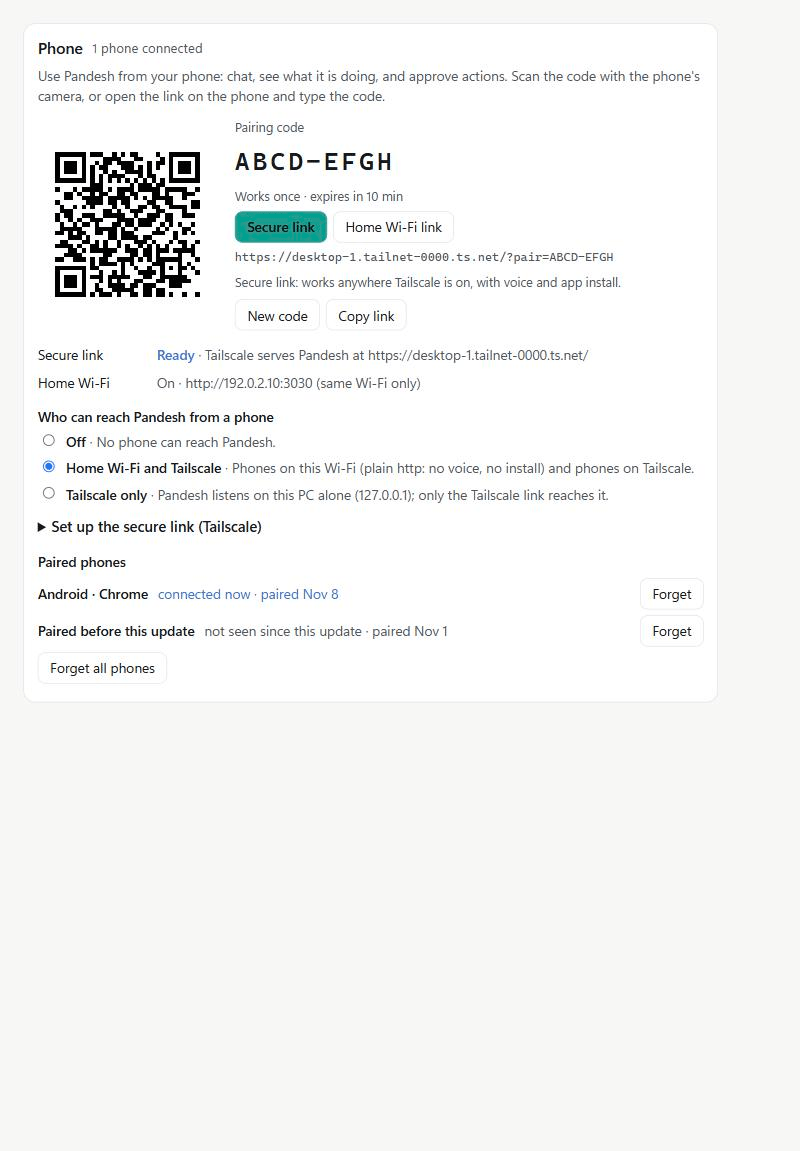
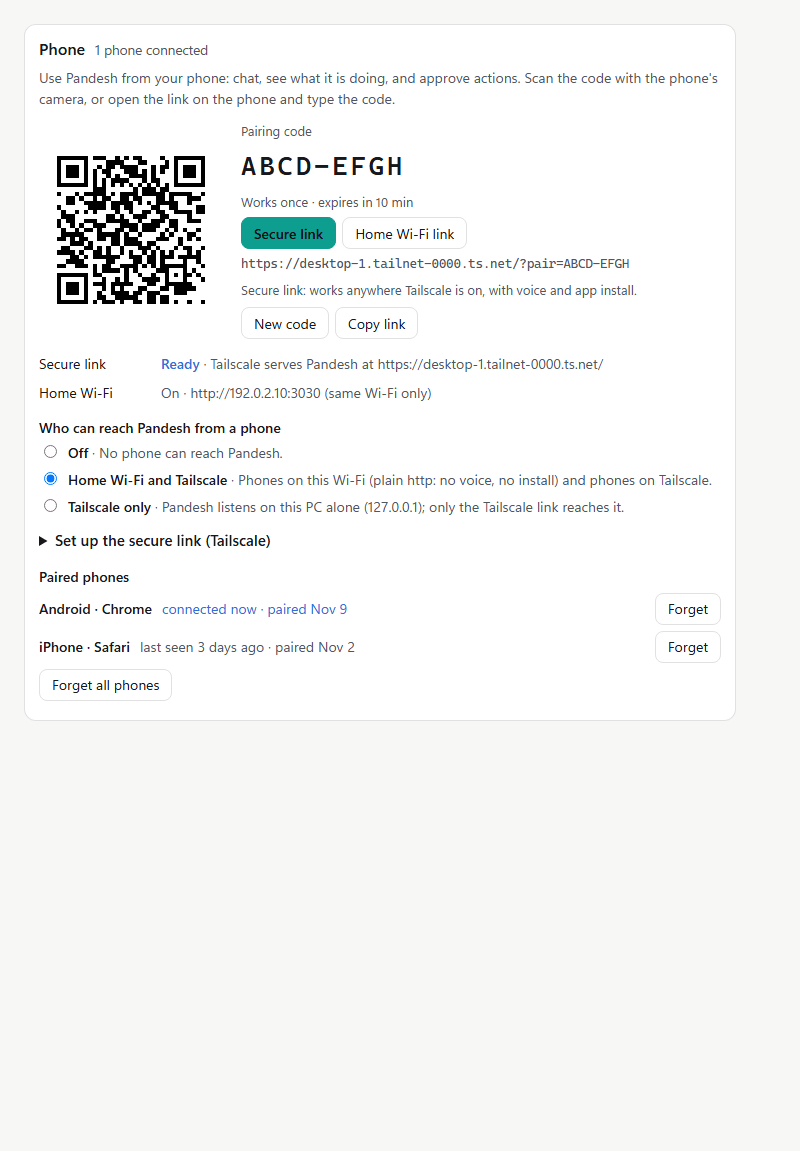
fix(mobile): drop phone logins from older builds on upgrade
On its first start this build used to keep the phones paired with an older
build, their raw tokens hashed and shown as "Paired before this update". Now
the old file's phone logins, its host token and its code are all dropped:
those phones pair again with a new one-time code. The new file replaces the
old one, so no copy of the old values stays on disk. The host log records
only the count: "[MOBILE] dropped N phone logins from an older build".

- mobilePairing: the migration keeps nothing; droppedOldLogins gives the count.
- The legacy flag and the "not seen since this update" wording are gone.
- Tests: old sessions and the old host token no longer log in, a fresh code
  is issued, nothing old is left in the folder (not even hashed), and the
  server logs only the count.
- docs/mobile: phones paired with an older build must pair again. The example
  Phone card screenshot no longer shows an old-build phone.

Changed region(s): [[0.0312, 0.0304, 0.875, 0.6082], [0.8125, 0.5169, 0.875, 0.5778]]

diff --git a/apps/desktop/src/host/mobilePairing.ts b/apps/desktop/src/host/mobilePairing.ts
@@ -8,7 +8,8 @@
  * - A phone not seen for 90 days is forgotten.
  *
  * Earlier builds kept a 4-character code that never changed and the raw session tokens. Loading such a file keeps
- * its phones (marked "paired before this update", so the owner can forget them) and drops the old code.
+ * none of it: phones paired with an older build pair again with a new one-time code, and the new file replaces the
+ * old one, so no copy of its values stays on disk.
  */
 import * as crypto from 'node:crypto';
 import * as fs from 'node:fs';
@@ -28,8 +29,6 @@ export interface PairedDevice {
   name: string;
   pairedAt: string;
   lastSeenAt: string | null;
-  /** Paired by a build before this pairing format (its token was stored in the clear and has now been hashed). */
-  legacy?: boolean;
 }
 
 interface StoredDevice extends PairedDevice {
@@ -108,6 +107,7 @@ export class PairingStore {
   private codeIssuedAt = 0;
   private devices: StoredDevice[] = [];
   private readonly persistedSeen = new Map<string, number>();
+  private oldLoginsDropped = 0;
 
   constructor(
     private readonly file: string,
@@ -119,6 +119,11 @@ export class PairingStore {
 
   static fileIn(dataDir: string): string {
     return path.join(dataDir, 'mobile-pair.json');
+  }
+
+  /** How many phone logins from an older build's file were dropped when this store loaded it (a count, nothing else). */
+  get droppedOldLogins(): number {
+    return this.oldLoginsDropped;
   }
 
   /** The current code, replaced first when it has expired. */
@@ -232,7 +237,6 @@ export class PairingStore {
           pairedAt: typeof d.pairedAt === 'string' ? d.pairedAt : new Date(this.now()).toISOString(),
           lastSeenAt: typeof d.lastSeenAt === 'string' ? d.lastSeenAt : null,
           tokenHash: d.tokenHash,
-          ...(d.legacy ? { legacy: true } : {}),
         }));
       const issued = Date.parse(file.codeIssuedAt);
       if (normalizePairingCode(file.code) === file.code && Number.isFinite(issued)) {
@@ -244,30 +248,20 @@ export class PairingStore {
       return;
     }
 
-    // Before this format: { code, token, sessions[], pairedTokens[] } with raw tokens. Keep the phones, hash their
-    // tokens, drop the never-expiring code. The old `token` was a host-side secret that was also accepted as a login;
-    // no phone ever received it, so it is not carried over.
+    // Before this format: { code, token, sessions[], pairedTokens[] }, with raw session tokens and a code that never
+    // changed. None of it is carried over (the owner's decision): phones paired with an older build pair again. The
+    // old `token` was a host-side secret that was also accepted as a login; it is dropped too, but not counted as a
+    // phone, since no phone ever held it.
     if (raw && typeof raw === 'object') {
-      const legacyHostToken = typeof raw.token === 'string' ? raw.token : null;
-      const tokens = new Set<string>();
+      const hostToken = typeof raw.token === 'string' ? raw.token : null;
+      const logins = new Set<string>();
       for (const list of [raw.sessions, raw.pairedTokens]) {
-        if (Array.isArray(list)) for (const t of list) if (typeof t === 'string' && t && t !== legacyHostToken) tokens.add(t);
+        if (Array.isArray(list)) for (const t of list) if (typeof t === 'string' && t && t !== hostToken) logins.add(t);
       }
-      const at = typeof raw.updatedAt === 'string' && Number.isFinite(Date.parse(raw.updatedAt))
-        ? raw.updatedAt
-        : new Date(this.now()).toISOString();
-      for (const t of tokens) {
-        this.devices.push({
-          id: crypto.randomBytes(6).toString('hex'),
-          name: 'Paired before this update',
-          pairedAt: at,
-          lastSeenAt: null,
-          tokenHash: hashSessionToken(t),
-          legacy: true,
-        });
-      }
-      this.trimDevices();
+      this.oldLoginsDropped = logins.size;
     }
+    // Starts with no phones and a fresh one-time code. The save replaces the old file in place (temp file, then
+    // rename), so none of the old values stay on disk.
     this.rotateCode();
   }
 

diff --git a/apps/desktop/test/mobilePairing.test.ts b/apps/desktop/test/mobilePairing.test.ts
@@ -95,6 +95,7 @@ describe('PairingStore', () => {
     if (!paired.ok) throw new Error('pairing failed');
     const code = a.currentCode().code;
     const b = new PairingStore(file, c.now);
+    expect(b.droppedOldLogins).toBe(0);
     expect(b.currentCode().code).toBe(code);
     expect(b.verify(paired.token)?.id).toBe(paired.device.id);
   });
@@ -139,26 +140,42 @@ describe('PairingStore', () => {
     expect(store.list()).toHaveLength(MAX_PAIRED_DEVICES);
   });
 
-  it('migrates the old file: phones kept with hashed tokens, the old code and the host token dropped', () => {
+  it('drops every login from an older build: none works again, a fresh code is issued, nothing old stays on disk', () => {
     const file = pairFile();
-    const hostToken = 'legacy-host-token-value-0001';
+    const hostToken = 'old-host-token-value-0001';
+    const phones = ['old-phone-session-aaaa', 'old-phone-session-bbbb', 'old-phone-session-cccc'];
     fs.writeFileSync(file, JSON.stringify({
       code: 'H7KM',
       token: hostToken,
-      sessions: ['phone-session-aaaa', hostToken, 'phone-session-bbbb'],
+      sessions: [phones[0], hostToken, phones[1]],
+      pairedTokens: [phones[1], phones[2]],
       updatedAt: '2026-11-01T10:00:00.000Z',
     }));
-    const store = new PairingStore(file, clock().now);
-    expect(store.currentCode().code).toMatch(/^[23456789A-HJ-NP-Z]{8}$/);
-    expect(store.list()).toHaveLength(2);
-    expect(store.list().every((d) => d.legacy && d.name === 'Paired before this update')).toBe(true);
-    expect(store.verify('phone-session-aaaa')).not.toBeNull();
-    expect(store.verify(hostToken)).toBeNull();
+    const c = clock();
+    const store = new PairingStore(file, c.now);
+
+    // 1. The old logins are dropped: three phones (the host token and the repeated token are not counted again).
+    expect(store.droppedOldLogins).toBe(3);
+    expect(store.list()).toEqual([]);
+    // 2. No old session token logs in any more, and neither does the old host token.
+    for (const old of [...phones, hostToken]) expect(store.verify(old)).toBeNull();
+    // 3. A fresh one-time code replaces the old 4-character one.
+    const { code, expiresAt } = store.currentCode();
+    expect(code).toMatch(/^[23456789A-HJ-NP-Z]{8}$/);
+    expect(expiresAt - c.now()).toBe(PAIR_CODE_TTL_MS);
+    expect(store.tryPair('H7KM', ANDROID_CHROME)).toEqual({ ok: false, reason: 'invalid' });
+
+    // Nothing old stays on disk: not in the new file (not even hashed), and no backup or temp file beside it.
+    expect(fs.readdirSync(path.dirname(file))).toEqual(['mobile-pair.json']);
     const saved = fs.readFileSync(file, 'utf8');
-    expect(saved).not.toContain('phone-session-aaaa');
-    expect(saved).not.toContain(hostToken);
-    expect(saved).not.toContain('H7KM');
-    expect(JSON.parse(saved).version).toBe(2);
+    for (const old of [...phones, hostToken, 'H7KM', ...[...phones, hostToken].map(hashSessionToken)]) expect(saved).not.toContain(old);
+    expect(JSON.parse(saved)).toMatchObject({ version: 2, devices: [] });
+
+    // A phone pairs as usual with the new code, and the next start has nothing old left to drop.
+    expect(store.tryPair(code, ANDROID_CHROME).ok).toBe(true);
+    const restarted = new PairingStore(file, c.now);
+    expect(restarted.droppedOldLogins).toBe(0);
+    expect(restarted.list()).toHaveLength(1);
   });
 
   it('a broken or foreign file starts clean instead of failing', () => {
@@ -166,6 +183,7 @@ describe('PairingStore', () => {
     fs.writeFileSync(file, '{ not json');
     const store = new PairingStore(file, clock().now);
     expect(store.list()).toEqual([]);
+    expect(store.droppedOldLogins).toBe(0);
     expect(store.currentCode().code).toHaveLength(8);
   });
 });

diff --git a/apps/desktop/test/mobileServer.test.ts b/apps/desktop/test/mobileServer.test.ts
@@ -2,7 +2,7 @@ import { afterEach, describe, expect, it, vi } from 'vitest';
 import * as fs from 'node:fs';
 import * as path from 'node:path';
 import * as vm from 'node:vm';
-import { mockSession, pair, startServer } from './mobileTestKit';
+import { mockSession, pair, startServer, tempDir } from './mobileTestKit';
 
 const mobileFile = (name: string) => path.join(__dirname, '..', 'renderer', 'mobile', name);
 
@@ -220,6 +220,28 @@ describe('Pandesh Mobile Server (Unified Session Protocol)', () => {
       expect(text).not.toContain('host.token');
     }
     expect(JSON.stringify(await ok.json())).not.toMatch(/token/i);
+  });
+
+  it('after an upgrade, phones paired with an older build must pair again; the log gives only the count', async () => {
+    const dataDir = tempDir(dirs);
+    const hostToken = 'old-host-token-value-0002';
+    const phones = ['old-phone-session-dddd', 'old-phone-session-eeee'];
+    fs.writeFileSync(path.join(dataDir, 'mobile-pair.json'), JSON.stringify({ code: 'H7KM', token: hostToken, sessions: [phones[0], hostToken], pairedTokens: [phones[1]] }));
+    const { server: mobile, logs, base } = await server({ dataDir });
+
+    expect(logs).toContain('[MOBILE] dropped 2 phone logins from an older build');
+    expect(mobile.pairedDevices()).toEqual([]);
+    for (const old of [...phones, hostToken]) {
+      expect((await fetch(`${base}/api/session`, { headers: { Cookie: `kkd_session=${old}` } })).status).toBe(401);
+      expect((await fetch(`${base}/api/events`, { headers: { Cookie: `kkd_session=${old}` } })).status).toBe(401);
+    }
+    expect((await pair(base, 'H7KM')).status).toBe(401);
+
+    const { code } = mobile.getPairingInfo();
+    expect(code).toMatch(/^[23456789A-HJ-NP-Z]{4}-[23456789A-HJ-NP-Z]{4}$/);
+    expect((await pair(base, code)).status).toBe(200);
+    const logText = logs.join('\n');
+    for (const secret of [...phones, hostToken, 'H7KM', code, code.replace('-', '')]) expect(logText).not.toContain(secret);
   });
 });
 

diff --git a/apps/desktop/renderer-v2/src/Phone.tsx b/apps/desktop/renderer-v2/src/Phone.tsx
@@ -56,7 +56,8 @@ function QrCode({ text }: { text: string }) {
 }
 
 function deviceLine(d: MobileDevice, now: number): string {
-  const seen = d.connected ? 'connected now' : d.lastSeenAt ? `last seen ${since(d.lastSeenAt, now)}` : 'not seen since this update';
+  const lastSeen = since(d.lastSeenAt ?? d.pairedAt, now);
+  const seen = d.connected ? 'connected now' : lastSeen ? `last seen ${lastSeen}` : '';
   const paired = Number.isFinite(Date.parse(d.pairedAt)) ? `paired ${new Date(d.pairedAt).toLocaleDateString(undefined, { day: 'numeric', month: 'short' })}` : '';
   return [seen, paired].filter(Boolean).join(' · ');
 }

diff --git a/apps/desktop/src/host/mobileServer.ts b/apps/desktop/src/host/mobileServer.ts
@@ -134,6 +134,9 @@ export class MobileServer {
     this.pairing = new PairingStore(PairingStore.fileIn(options.dataDir), this.now);
     this.limiter = new PairAttemptLimiter(options.pairLimits ?? DEFAULT_PAIR_LIMITS, this.now);
     this.assets = new MobileAssets(options.assetsDir ?? defaultMobileAssetsDir());
+    // Only the count, so the drop can be confirmed after an upgrade; never a token or a code.
+    const dropped = this.pairing.droppedOldLogins;
+    if (dropped > 0) this.log(`[MOBILE] dropped ${dropped} phone login${dropped === 1 ? '' : 's'} from an older build`);
   }
 
   private log(message: string): void {

diff --git a/apps/desktop/renderer-v2/src/bridge.ts b/apps/desktop/renderer-v2/src/bridge.ts
@@ -91,7 +91,7 @@ export interface Brief { generatedAt: string; home: BriefItem[] }
 
 /** Who can reach Pandesh Mobile (ipc.ts MobileAccessMode). */
 export type MobileAccess = 'off' | 'lan' | 'tailscale';
-export interface MobileDevice { id: string; name: string; pairedAt: string; lastSeenAt: string | null; connected: boolean; legacy?: boolean }
+export interface MobileDevice { id: string; name: string; pairedAt: string; lastSeenAt: string | null; connected: boolean }
 /** Phone pairing as the host reports it (ipc.ts MobilePairingView). Never a session token. */
 export interface MobilePairing {
   code: string;

diff --git a/apps/desktop/src/ipc.ts b/apps/desktop/src/ipc.ts
@@ -1115,7 +1115,6 @@ export interface MobilePairedDeviceView {
   pairedAt: string;
   lastSeenAt: string | null;
   connected: boolean;
-  legacy?: boolean;
 }
 
 /** The phone pairing state for the PC (Connections → Phone; Classic Integrations). Never contains a session token. */

diff --git a/docs/mobile/README.md b/docs/mobile/README.md
@@ -46,6 +46,7 @@ Without Tailscale, a phone on the same Wi-Fi opens `http://<PC address>:3030`. T
 
 - **Pairing.** The code has 8 characters, works once, and expires after 10 minutes. After 5 wrong codes from one device in 5 minutes, that device has to wait. After 20 wrong codes in total, pairing pauses for 15 minutes. You can allow it again on the PC.
 - **Each phone has its own login.** It is an HttpOnly, SameSite=Strict cookie, marked Secure over HTTPS. The PC stores only a hash of it. A phone that has not been seen for 90 days is forgotten. The Phone card lists the paired phones, with **Forget** and **Forget all**.
+- **Phones paired with an older build must pair again.** On its first start this build drops the old pairing code and every phone login stored by an older build, and keeps no copy of them. The host log records only how many were dropped.
 - **Only this PC's own addresses.** A request must name the PC: an IP address, a local name, or the Tailscale name through `tailscale serve`. So a web page cannot reach Pandesh by DNS rebinding. Requests from other sites are refused (there is no CORS), and the app runs under a strict Content Security Policy.
 - **No public internet.** Requests that arrive through Tailscale Funnel are refused, and the Phone card warns while Funnel is on.
 - **Nothing about your conversations is stored on the phone.** The service worker caches only the app's own files. Conversations, approvals, audio and pairing always go to the PC.
